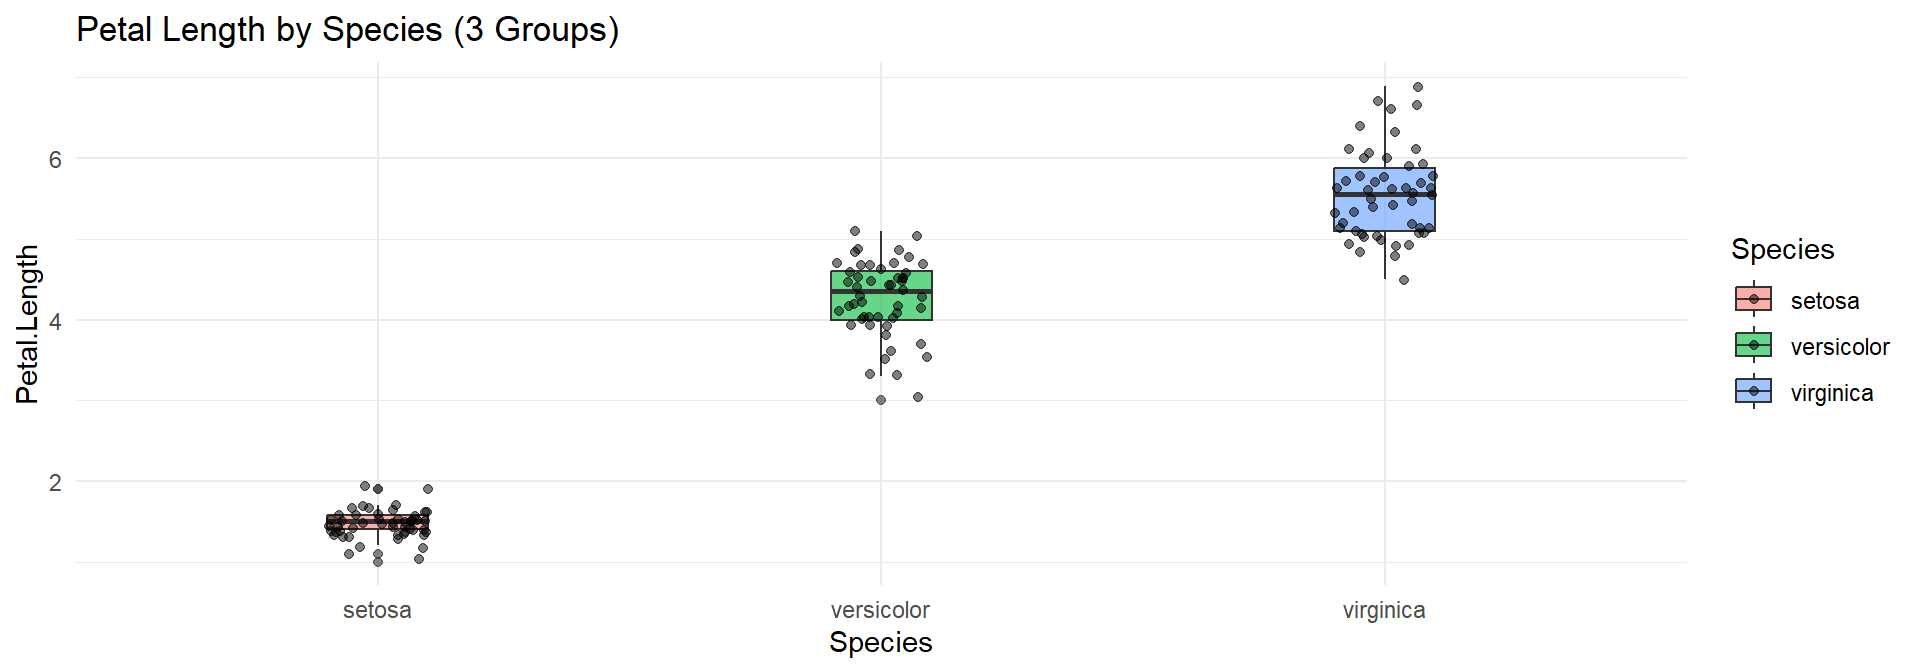
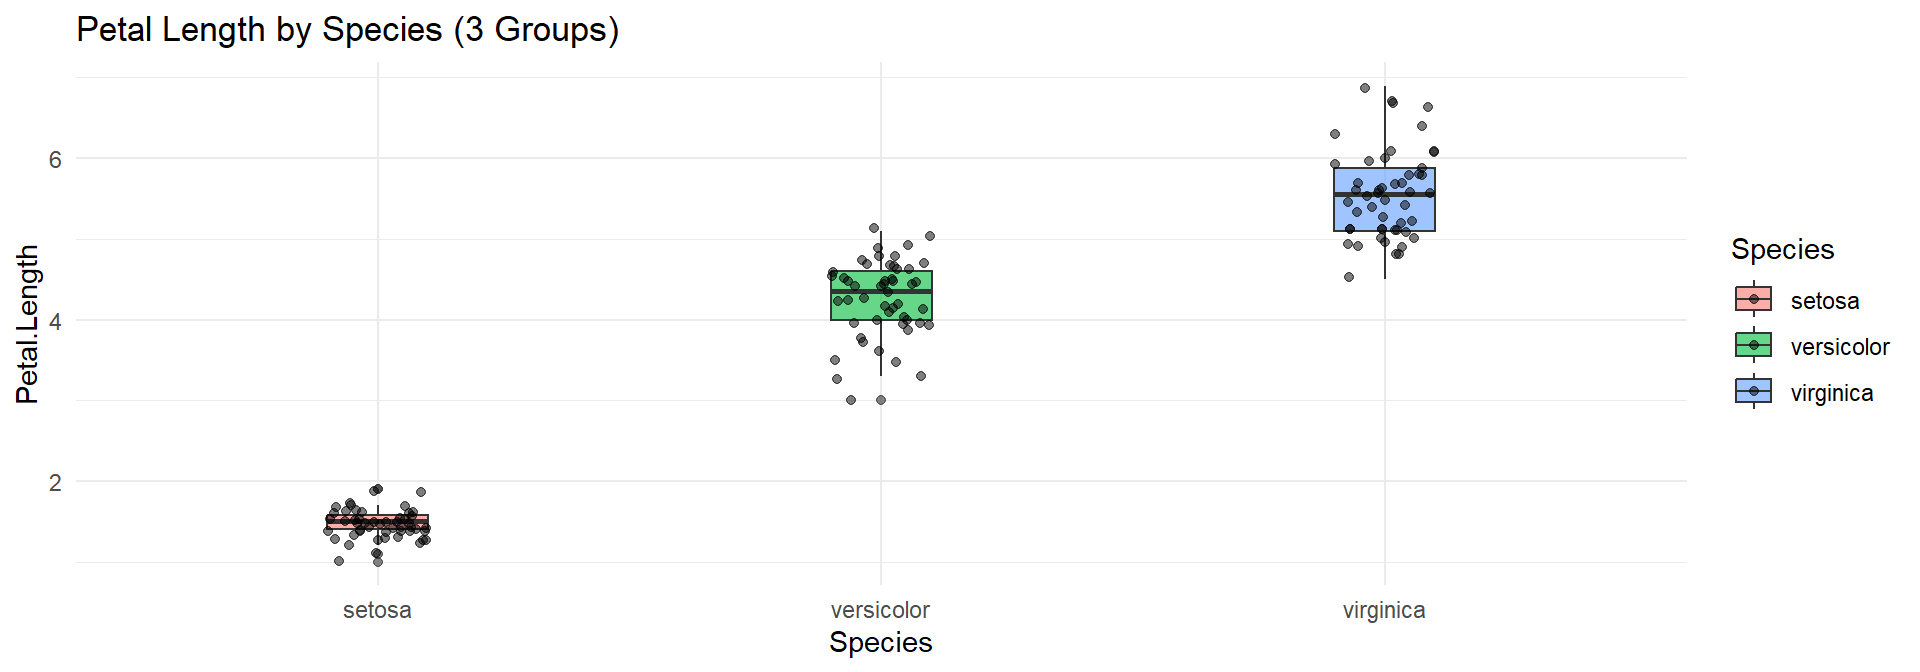
nonparam

Changed region(s): [[0.6875, 0.125, 0.75, 0.375], [0.4375, 0.3438, 0.5, 0.5625], [0.1562, 0.7188, 0.25, 0.8438]]

diff --git a/docs/1-way-anova.html b/docs/1-way-anova.html
@@ -229,8 +229,11 @@ pre > code.sourceCode > span > a:first-child::before { text-decoration: underlin
   </div>
 </li>
           <li class="sidebar-item">
- <span class="menu-text">nonparams.qmd</span>
-  </li>
+  <div class="sidebar-item-container"> 
+  <a href="./nonparam.html" class="sidebar-item-text sidebar-link">
+ <span class="menu-text">Non-Parametric Statistics</span></a>
+  </div>
+</li>
       </ul>
   </li>
     </ul>

diff --git a/docs/data-structures.html b/docs/data-structures.html
@@ -229,8 +229,11 @@ pre > code.sourceCode > span > a:first-child::before { text-decoration: underlin
   </div>
 </li>
           <li class="sidebar-item">
- <span class="menu-text">nonparams.qmd</span>
-  </li>
+  <div class="sidebar-item-container"> 
+  <a href="./nonparam.html" class="sidebar-item-text sidebar-link">
+ <span class="menu-text">Non-Parametric Statistics</span></a>
+  </div>
+</li>
       </ul>
   </li>
     </ul>

diff --git a/docs/galton.html b/docs/galton.html
@@ -228,8 +228,11 @@ pre > code.sourceCode > span > a:first-child::before { text-decoration: underlin
   </div>
 </li>
           <li class="sidebar-item">
- <span class="menu-text">nonparams.qmd</span>
-  </li>
+  <div class="sidebar-item-container"> 
+  <a href="./nonparam.html" class="sidebar-item-text sidebar-link">
+ <span class="menu-text">Non-Parametric Statistics</span></a>
+  </div>
+</li>
       </ul>
   </li>
     </ul>

diff --git a/docs/indexing.html b/docs/indexing.html
@@ -229,8 +229,11 @@ pre > code.sourceCode > span > a:first-child::before { text-decoration: underlin
   </div>
 </li>
           <li class="sidebar-item">
- <span class="menu-text">nonparams.qmd</span>
-  </li>
+  <div class="sidebar-item-container"> 
+  <a href="./nonparam.html" class="sidebar-item-text sidebar-link">
+ <span class="menu-text">Non-Parametric Statistics</span></a>
+  </div>
+</li>
       </ul>
   </li>
     </ul>

diff --git a/docs/syntax-basics.html b/docs/syntax-basics.html
@@ -229,8 +229,11 @@ pre > code.sourceCode > span > a:first-child::before { text-decoration: underlin
   </div>
 </li>
           <li class="sidebar-item">
- <span class="menu-text">nonparams.qmd</span>
-  </li>
+  <div class="sidebar-item-container"> 
+  <a href="./nonparam.html" class="sidebar-item-text sidebar-link">
+ <span class="menu-text">Non-Parametric Statistics</span></a>
+  </div>
+</li>
       </ul>
   </li>
     </ul>

diff --git a/docs/LICENSE.html b/docs/LICENSE.html
@@ -193,8 +193,11 @@ ul.task-list li input[type="checkbox"] {
   </div>
 </li>
           <li class="sidebar-item">
- <span class="menu-text">nonparams.qmd</span>
-  </li>
+  <div class="sidebar-item-container"> 
+  <a href="./nonparam.html" class="sidebar-item-text sidebar-link">
+ <span class="menu-text">Non-Parametric Statistics</span></a>
+  </div>
+</li>
       </ul>
   </li>
     </ul>

diff --git a/docs/eda.html b/docs/eda.html
@@ -195,8 +195,11 @@ ul.task-list li input[type="checkbox"] {
   </div>
 </li>
           <li class="sidebar-item">
- <span class="menu-text">nonparams.qmd</span>
-  </li>
+  <div class="sidebar-item-container"> 
+  <a href="./nonparam.html" class="sidebar-item-text sidebar-link">
+ <span class="menu-text">Non-Parametric Statistics</span></a>
+  </div>
+</li>
       </ul>
   </li>
     </ul>

diff --git a/docs/index.html b/docs/index.html
@@ -193,8 +193,11 @@ ul.task-list li input[type="checkbox"] {
   </div>
 </li>
           <li class="sidebar-item">
- <span class="menu-text">nonparams.qmd</span>
-  </li>
+  <div class="sidebar-item-container"> 
+  <a href="./nonparam.html" class="sidebar-item-text sidebar-link">
+ <span class="menu-text">Non-Parametric Statistics</span></a>
+  </div>
+</li>
       </ul>
   </li>
     </ul>

diff --git a/docs/mini-project.html b/docs/mini-project.html
@@ -193,8 +193,11 @@ ul.task-list li input[type="checkbox"] {
   </div>
 </li>
           <li class="sidebar-item">
- <span class="menu-text">nonparams.qmd</span>
-  </li>
+  <div class="sidebar-item-container"> 
+  <a href="./nonparam.html" class="sidebar-item-text sidebar-link">
+ <span class="menu-text">Non-Parametric Statistics</span></a>
+  </div>
+</li>
       </ul>
   </li>
     </ul>

diff --git a/docs/t-test.html b/docs/t-test.html
@@ -195,8 +195,11 @@ ul.task-list li input[type="checkbox"] {
   </div>
 </li>
           <li class="sidebar-item">
- <span class="menu-text">nonparams.qmd</span>
-  </li>
+  <div class="sidebar-item-container"> 
+  <a href="./nonparam.html" class="sidebar-item-text sidebar-link">
+ <span class="menu-text">Non-Parametric Statistics</span></a>
+  </div>
+</li>
       </ul>
   </li>
     </ul>

diff --git a/docs/tidy-data.html b/docs/tidy-data.html
@@ -195,8 +195,11 @@ ul.task-list li input[type="checkbox"] {
   </div>
 </li>
           <li class="sidebar-item">
- <span class="menu-text">nonparams.qmd</span>
-  </li>
+  <div class="sidebar-item-container"> 
+  <a href="./nonparam.html" class="sidebar-item-text sidebar-link">
+ <span class="menu-text">Non-Parametric Statistics</span></a>
+  </div>
+</li>
       </ul>
   </li>
     </ul>

diff --git a/docs/chisquare.html b/docs/chisquare.html
@@ -256,8 +256,11 @@ window.Quarto = {
   </div>
 </li>
           <li class="sidebar-item">
- <span class="menu-text">nonparams.qmd</span>
-  </li>
+  <div class="sidebar-item-container"> 
+  <a href="./nonparam.html" class="sidebar-item-text sidebar-link">
+ <span class="menu-text">Non-Parametric Statistics</span></a>
+  </div>
+</li>
       </ul>
   </li>
     </ul>
